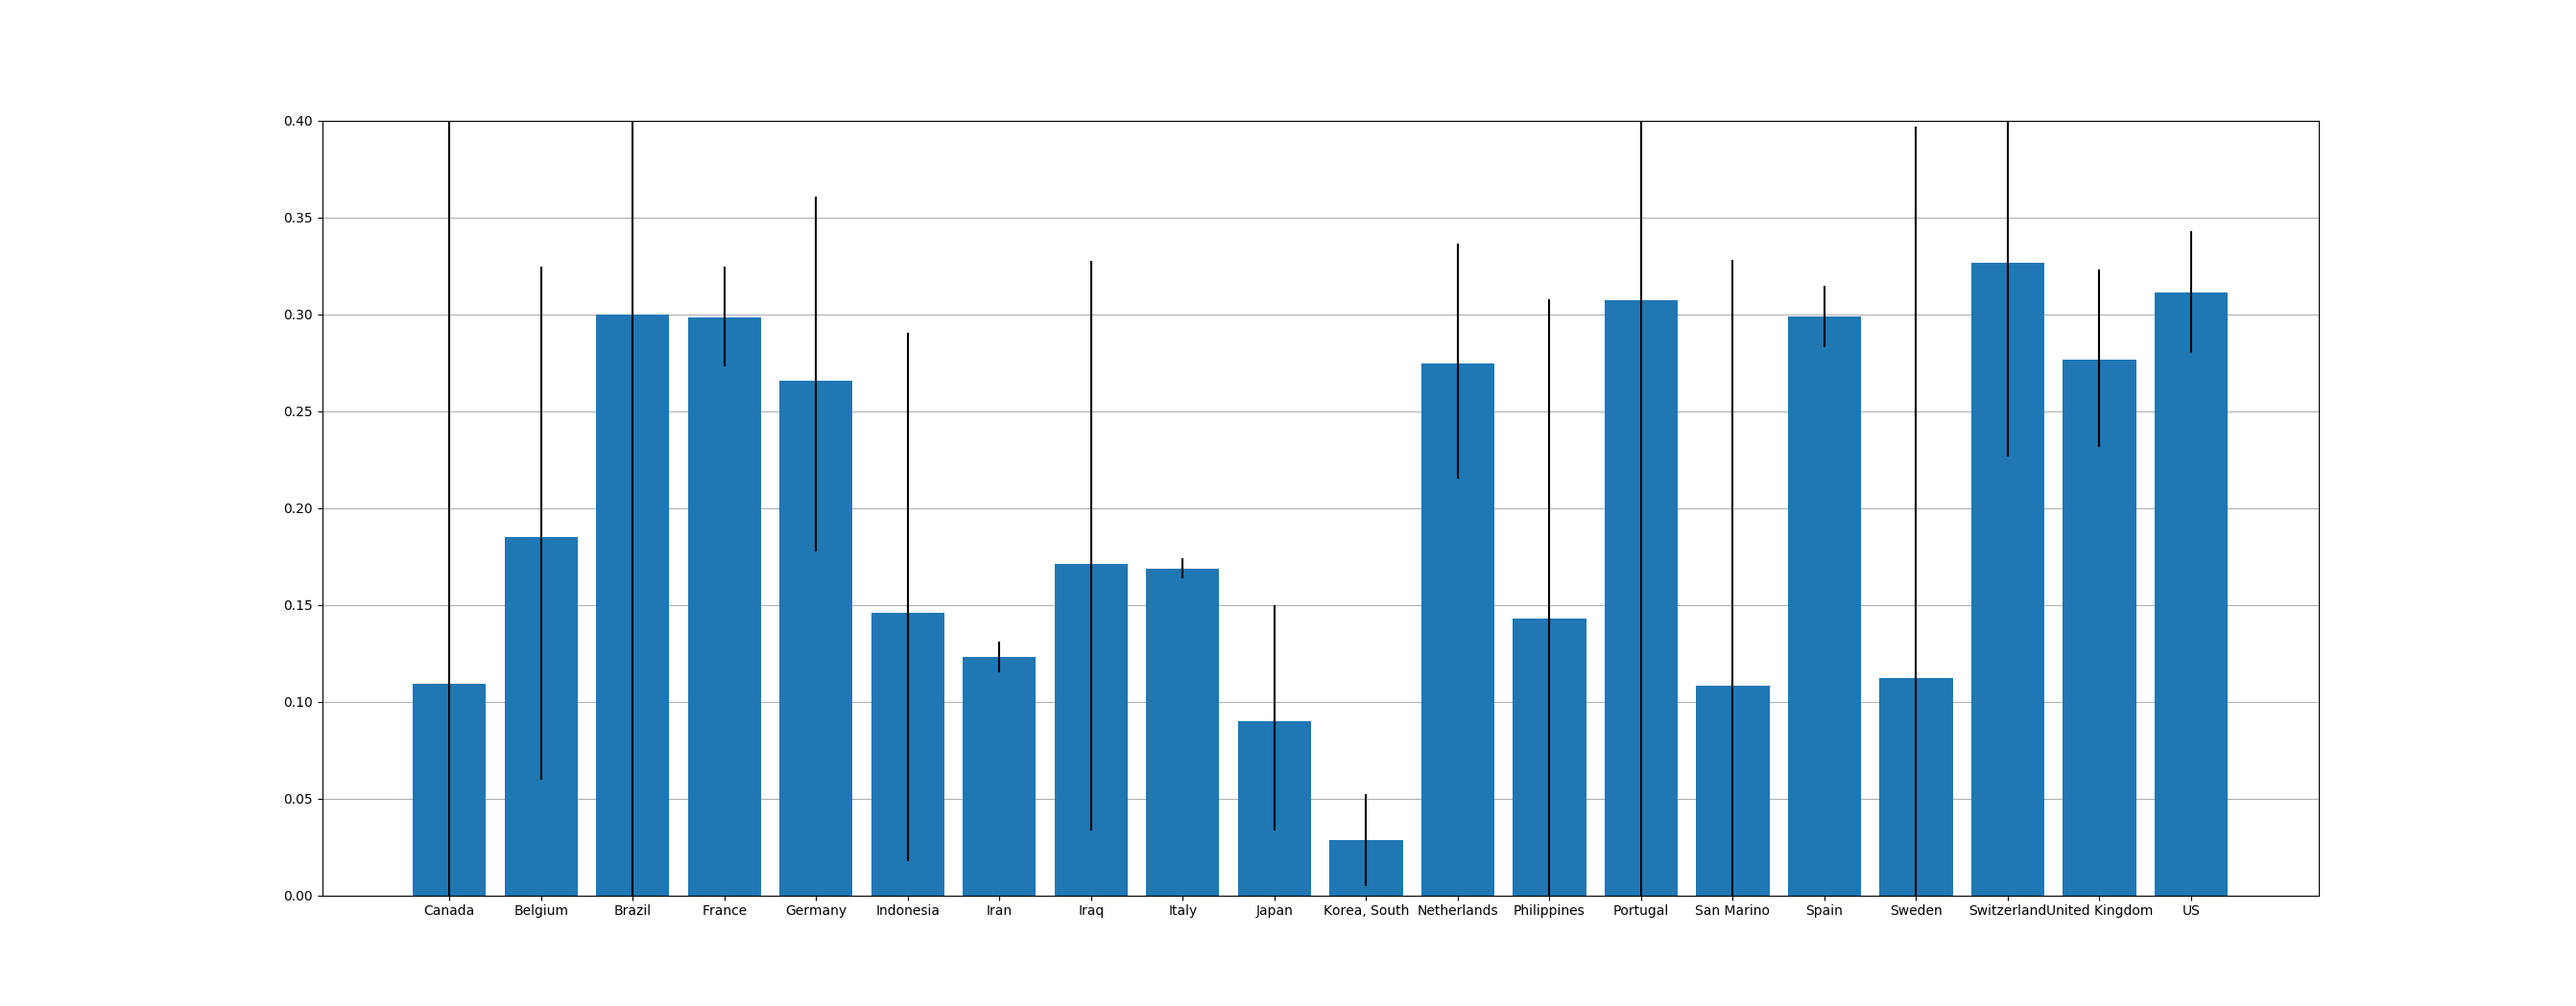
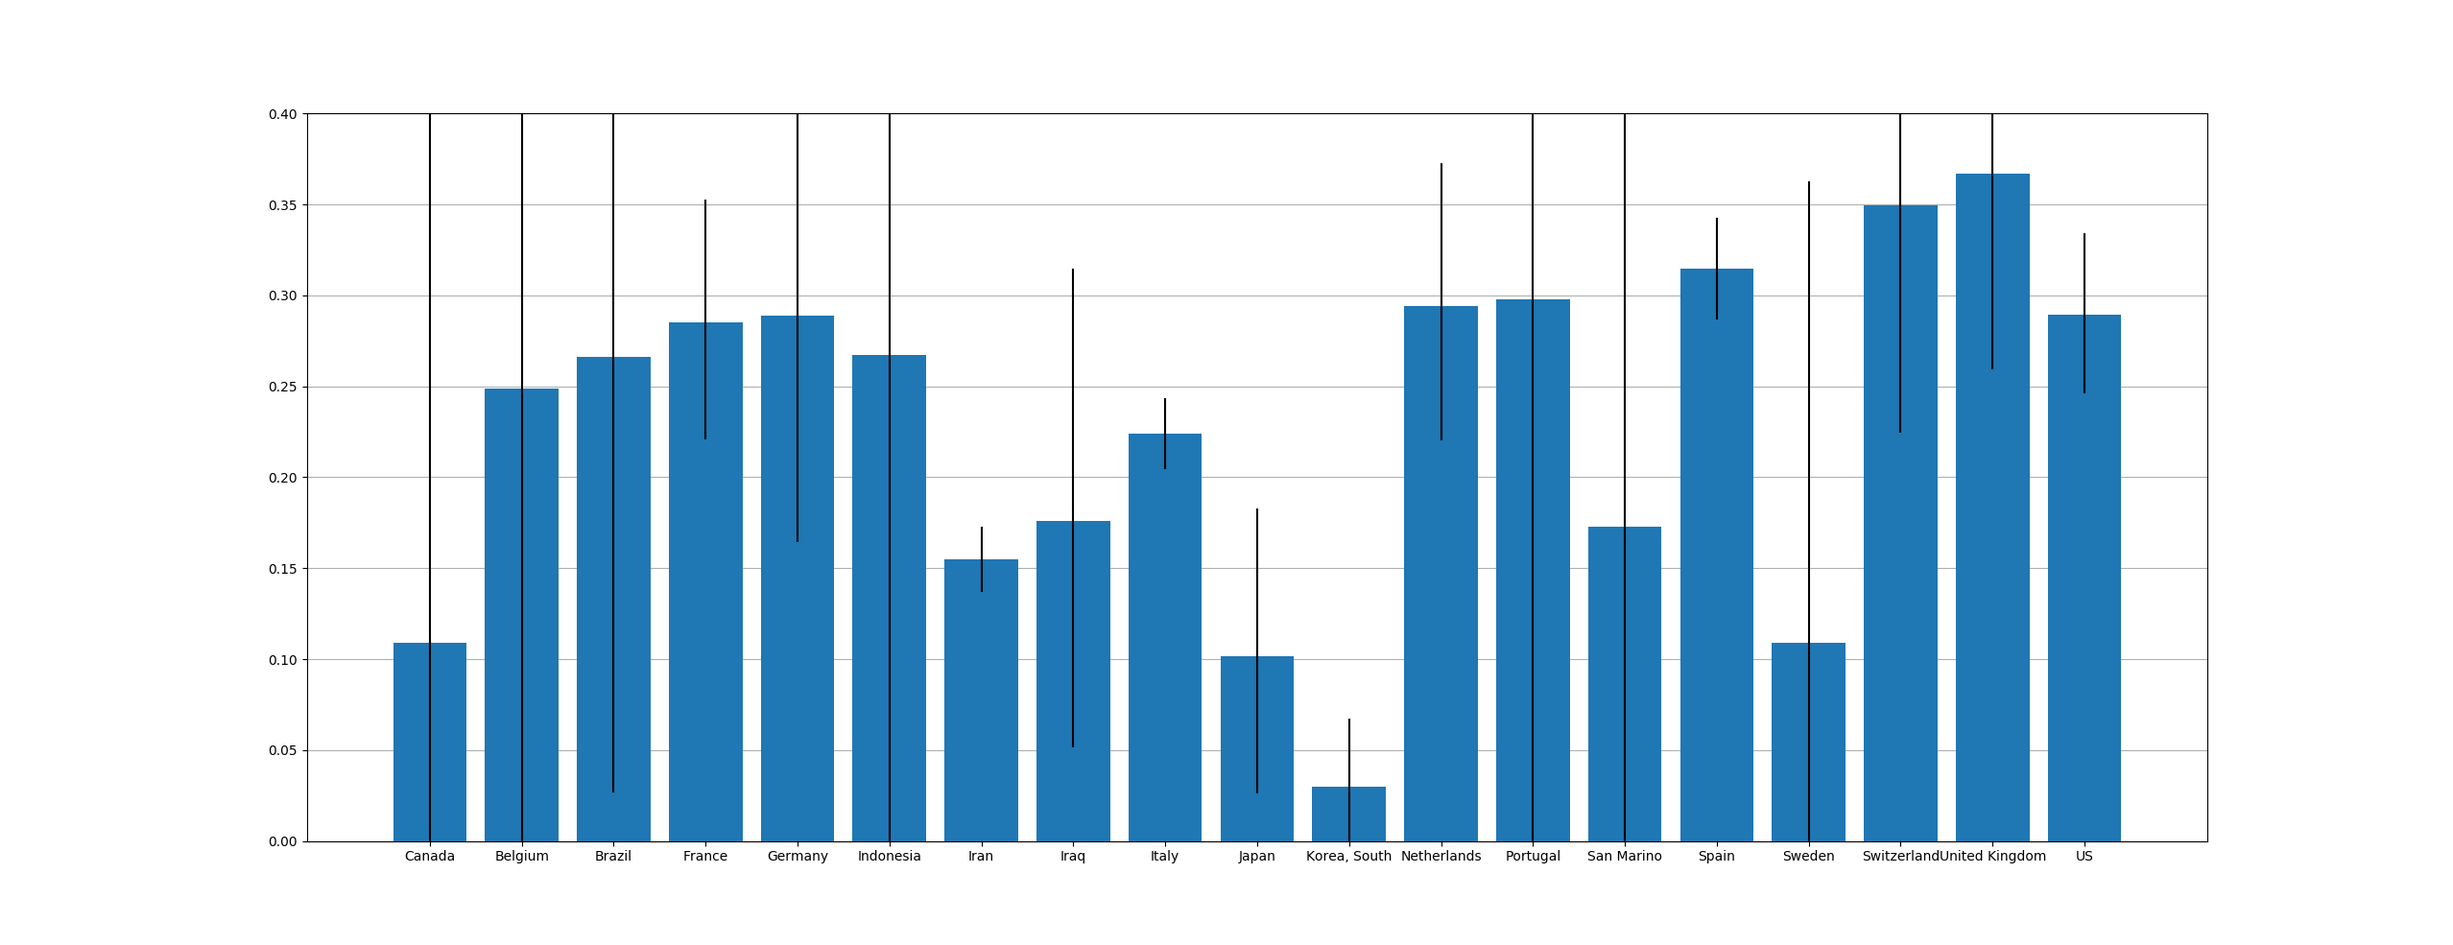
new figs

Changed region(s): [[0.1545, 0.1827, 0.8654, 0.9137]]

diff --git a/process_deaths_hacky.py b/process_deaths_hacky.py
@@ -57,7 +57,8 @@ def calculate_growth(series, thresh=10, start=5):
   keep = series >= start
   series = series[keep]
   days = days[keep]
-  model = analyze.ExponentialGrowthRateEstimator()
+  #model = analyze.ExponentialGrowthRateEstimator()
+  model = analyze.ExponentialGrowthRateEstimator(family='NegativeBinomial', alpha=None)
   model.fit(day=days, cases=series)
   est = model.growth_rate()
   low, high = model.growth_rate_confint()
@@ -73,14 +74,15 @@ for k, v in region_counts.items():
 
 growths = dict()
 skip = ['Austria', 'Denmark', 'China']
-#dataset = chain(agg_counts.items(), region_counts.items()):
-dataset = us_counts.items()
+dataset = chain(agg_counts.items(), region_counts.items())
+#dataset = us_counts.items()
 for k, v in dataset:
   if k in skip:
     continue
   try:
     growth = calculate_growth(v, thresh = 20, start = 5)
     if growth:
+      print(' (for %s)' % k)
       growths[k] = growth
   except Exception:
     print('Failed to calculate for %s' % k)
@@ -94,7 +96,7 @@ err_h = list([v[2]-v[1] for v in to_plot.values()])
 errs = np.array([err_l, err_h])
 plt.rcParams['axes.axisbelow'] = True
 plt.bar(range(len(names)), ests, yerr=errs, align='center')
-plt.ylim([0,0.8])
+plt.ylim([0,0.4])
 plt.grid(axis='y')
 
 plt.xticks(range(len(names)), names)

diff --git a/process_states.py b/process_states.py
@@ -39,7 +39,7 @@ def calculate_growth(series, thresh=10, start=5):
   keep = series >= start
   series = series[keep]
   days = days[keep]
-  model = analyze.ExponentialGrowthRateEstimator()
+  model = analyze.ExponentialGrowthRateEstimator(family='NegativeBinomial', alpha=None)
   model.fit(day=days, cases=series)
   est = model.growth_rate()
   low, high = model.growth_rate_confint()
